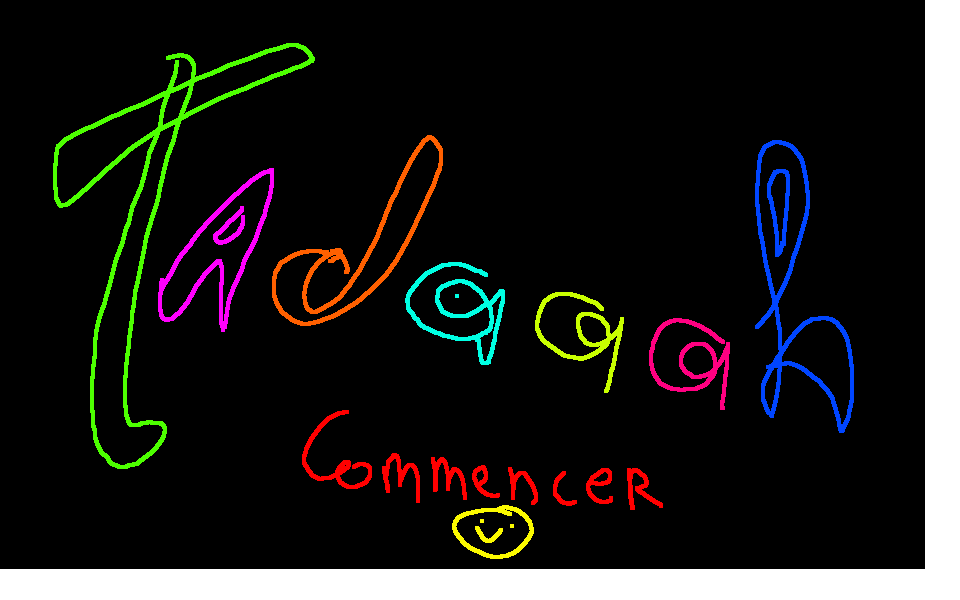
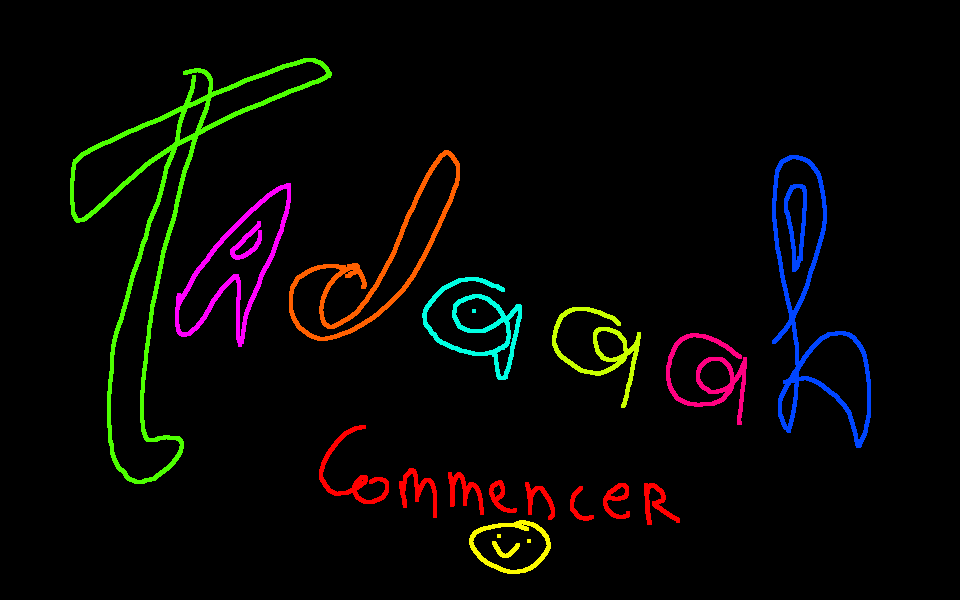
correction chemin

Changed region(s): [[0.0312, 0.06, 0.9062, 0.81], [0.0, 0.0, 1.0, 1.0]]

diff --git a/main.js b/main.js
@@ -1,17 +1,17 @@
 import kaplay from "https://unpkg.com/kaplay@3001.0.19/dist/kaplay.mjs";
-import * as menu from "/scène/menu.js"; 
-import * as chambre from "/scène/chambre.js";
-import * as bus from "/scène/bus.js";
-import * as ecole from "/scène/ecole.js";
-import * as psy from "/scène/psy.js";
-import * as chambre2 from "/scène/chambre2.js";
-import * as bus2 from "/scène/bus2.js";
-import * as ecole2 from "/scène/ecole2.js";
-import * as psy2 from "/scène/psy2.js";
-import * as fin from "/scène/fin.js";
+import * as menu from "./scene/menu.js"; 
+import * as chambre from "./scene/chambre.js";
+import * as bus from "./scene/bus.js";
+import * as ecole from "./scene/ecole.js";
+import * as psy from "./scene/psy.js";
+import * as chambre2 from "./scene/chambre2.js";
+import * as bus2 from "./scene/bus2.js";
+import * as ecole2 from "./scene/ecole2.js";
+import * as psy2 from "./scene/psy2.js";
+import * as fin from "./scene/fin.js";
 
 //__________________________loquace_________________________
-import { loquacePlugin , clear } from "/loquace.js";
+import { loquacePlugin , clear } from "./loquace.js";
 
 const k = kaplay({
     buttons: {
@@ -20,6 +20,10 @@ const k = kaplay({
         },
     },
     plugins: [loquacePlugin],
+    width : 960,
+    height : 600,
+    stretch : true,
+    letterbox : true,
 });
 
 loquace.init();
@@ -106,42 +110,42 @@ loquace.characters({
 //_________________________ SPRITES___________________________
 
 //______Scène
-loadSprite('menu', '/assets/menu.png');
-loadSprite('fin', '/assets/fin.png');
+loadSprite('menu', './assets/menu.png');
+loadSprite('fin', './assets/fin.png');
 
-loadSprite('chambre','/assets/chambre.png');
-loadSprite('chambre2','/assets/chambre2.png');
+loadSprite('chambre','./assets/chambre.png');
+loadSprite('chambre2','./assets/chambre2.png');
 
-loadSprite('bus', '/assets/bus.png');
-loadSprite('bus2', '/assets/bus2.png');
+loadSprite('bus', './assets/bus.png');
+loadSprite('bus2', './assets/bus2.png');
 
-loadSprite('ecole','/assets/école.png');
-loadSprite('ecole2','/assets/école2.png');
+loadSprite('ecole','./assets/école.png');
+loadSprite('ecole2','./assets/école2.png');
 
-loadSprite('psy','/assets/buro.png');
-loadSprite('psy2','/assets/buro2.png');
+loadSprite('psy','./assets/buro.png');
+loadSprite('psy2','./assets/buro2.png');
 
 //_____Autres
 
-loadSprite('self','/assets/self.png',{
+loadSprite('self','./assets/self.png',{
     sliceX: 7,
     sliceY: 4,
 })
-loadSprite('sac', '/assets/sac.png', {
+loadSprite('sac', './assets/sac.png', {
     sliceX: 1,
     sliceY: 2,
     anims:{
             "cligno": { from: 0, to: 1, loop: true } 
             } 
 })
-loadSprite('sac2', '/assets/sac2.png', {
+loadSprite('sac2', './assets/sac2.png', {
     sliceX: 1,
     sliceY: 2,
     anims:{
             "cligno": { from: 0, to: 1, loop: true } 
             } 
 })
-loadSprite('box', '/assets/box.png', {
+loadSprite('box', './assets/box.png', {
     sliceX: 1,
     sliceY: 2,
     anims:{
@@ -149,7 +153,7 @@ loadSprite('box', '/assets/box.png', {
         }
      } 
 )
-loadSprite('devoir', '/assets/devoir.png', {
+loadSprite('devoir', './assets/devoir.png', {
     sliceX: 2,
     sliceY: 2,
     anims:{
@@ -158,7 +162,7 @@ loadSprite('devoir', '/assets/devoir.png', {
         }
      } 
 )
-loadSprite('devoir2', '/assets/devoir2.png', {
+loadSprite('devoir2', './assets/devoir2.png', {
     sliceX: 2,
     sliceY: 2,
     anims:{
@@ -167,47 +171,47 @@ loadSprite('devoir2', '/assets/devoir2.png', {
         }
      } 
 )
-loadSprite('feuille', '/assets/feuille.png', {
+loadSprite('feuille', './assets/feuille.png', {
     sliceX: 1,
     sliceY: 2,
     anims:{
             "cligno": { from: 0, to: 1, loop: true } 
             } 
 })
-loadSprite('jean', '/assets/jean.png', {
+loadSprite('jean', './assets/jean.png', {
     sliceX: 1,
     sliceY: 2,
     anims:{
             "cligno": { from: 0, to: 1, loop: true } 
             } 
 })
-loadSprite('oreiller', '/assets/oreiller.png', {
+loadSprite('oreiller', './assets/oreiller.png', {
     sliceX: 1,
     sliceY: 2,
     anims:{
             "cligno": { from: 0, to: 1, loop: true } 
             } 
 })
-loadSprite('pull', '/assets/pull.png', {
+loadSprite('pull', './assets/pull.png', {
     sliceX: 1,
     sliceY: 2,
     anims:{
             "cligno": { from: 0, to: 1, loop: true } 
             } 
 })
-loadSprite('bubble', '/assets/bubble.png')
-loadSprite('BVerte', 'assets/bulleVerte.png')
+loadSprite('bubble', './assets/bubble.png')
+loadSprite('BVerte', './assets/bulleVerte.png')
 
 //____Son
-loadSound("music", "assets/menu.mp3");
-loadSound("chambreJeu", "assets/chambreJeu.mp3");
-loadSound("musicBus", "assets/bus.mp3");
-loadSound("musicPsy", "assets/psy.mp3");
-loadSound("musicPsy2", "assets/psy2.mp3");
-loadSound("juste", "assets/juste.mp3");
-loadSound("faux", "assets/faux.mp3");
-loadSound("musicEcole", "assets/ecole.mp3");
-loadSound("ecoleJeu", "assets/ecoleJeu.mp3");
-loadSound("bubble", "assets/bubble.mp3");
+loadSound("music", "./assets/menu.mp3");
+loadSound("chambreJeu", "./assets/chambreJeu.mp3");
+loadSound("musicBus", "./assets/bus.mp3");
+loadSound("musicPsy", "./assets/psy.mp3");
+loadSound("musicPsy2", "./assets/psy2.mp3");
+loadSound("juste", "./assets/juste.mp3");
+loadSound("faux", "./assets/faux.mp3");
+loadSound("musicEcole", "./assets/ecole.mp3");
+loadSound("ecoleJeu", "./assets/ecoleJeu.mp3");
+loadSound("bubble", "./assets/bubble.mp3");
 
 go('menu') 

diff --git a/scene/chambre2.js b/scene/chambre2.js
@@ -1,4 +1,4 @@
-import { etat } from "/scène/retard.js";
+import { etat } from "./retard.js";
 
 export{
     init
@@ -41,6 +41,8 @@ function init(){
         ]);
 
         //////////////sac///////////////////////
+        let sacCliqué = false;
+
         const sac = add([
                     sprite('sac2', {
                         frame: 1}),
@@ -65,6 +67,7 @@ function init(){
             loquace.script([
                 "Oups, j'ai pas mis mes devoirs dans mon sac.",
             ]);
+            let sacCliqué = true;
         }});
 
     /////////////////////////DEvoir////////
@@ -78,7 +81,7 @@ function init(){
             "cligno"
         ]);
 
-        devoir.onHover(() =>{if(début >= 8){
+        devoir.onHover(() =>{if(sacCliqué = true){
             devoir.play("cligno")
             loquace.vn('feuille')
             }
@@ -90,7 +93,7 @@ function init(){
             music.speed += 0.05
         });
 
-        devoir.onClick(()=>{if(début >= 8){
+        devoir.onClick(()=>{if(sacCliqué = true){
             destroy(sac)
             devoir.play("trouvé")
             loquace.script([

diff --git a/scene/ecole2.js b/scene/ecole2.js
@@ -1,4 +1,4 @@
-import { etat } from "/scène/retard.js";
+import { etat } from "./retard.js";
 
 export{
     init
@@ -135,8 +135,7 @@ function init(){
 
             curseur.pos.x = 50 + (concentration / maxConcentration) * 500;
 
-            if(concentration > ZONE_HYPERFOCUS) {
-                labelEtat.color = YELLOW;
+            if(concentration >= ZONE_HYPERFOCUS) {
                 etat.hyperfocal ++;
                 actif = false;
                 get("barreConcentration").forEach(o => destroy(o));

diff --git a/scene/menu.js b/scene/menu.js
@@ -39,8 +39,9 @@ function init() {
             if(début >= 1) go('chambre');
         });
 
-        loquace.script([" Appuie sur espace pour faire passer le texte !",
-            "et utiliser la souris pour cliquer sur commencer :)"
+        loquace.script(["Appuie sur espace pour faire passer le texte !",
+            "et la souris pour cliquer sur les éléments ! ",
+            "u cliques sur commencer !"
         ]);
     });   
 }

diff --git a/scene/bus.js b/scene/bus.js
@@ -1,4 +1,4 @@
-import { etat } from "/scène/retard.js";
+import { etat } from "./retard.js";
 
 export{
     init

diff --git a/scene/bus2.js b/scene/bus2.js
@@ -1,4 +1,4 @@
-import { etat } from "/scène/retard.js";
+import { etat } from "./retard.js";
 
 export{
     init

diff --git a/scene/chambre.js b/scene/chambre.js
@@ -1,4 +1,4 @@
-import { etat } from "/scène/retard.js";
+import { etat } from "./retard.js";
 
 export{
     init

diff --git a/scene/ecole.js b/scene/ecole.js
@@ -1,4 +1,4 @@
-import { etat } from "/scène/retard.js";
+import { etat } from "./retard.js";
 
 export{
     init

diff --git a/scene/psy.js b/scene/psy.js
@@ -1,4 +1,4 @@
-import { etat } from "/scène/retard.js";
+import { etat } from "./retard.js";
 
 export{
     init

diff --git a/scene/psy2.js b/scene/psy2.js
@@ -1,4 +1,4 @@
-import { etat } from "/scène/retard.js";
+import { etat } from "./retard.js";
 
 export{
     init
